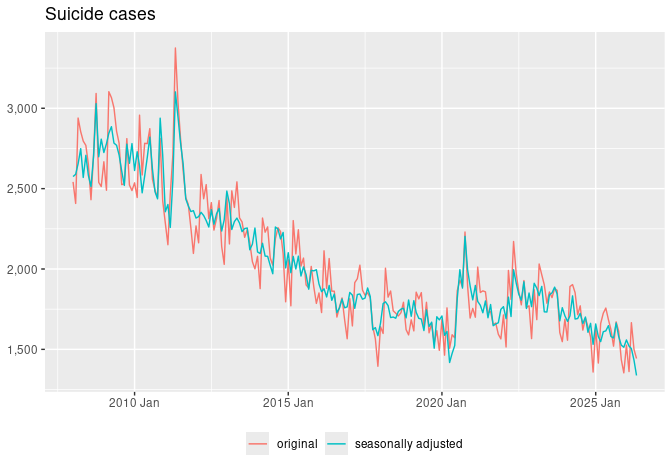
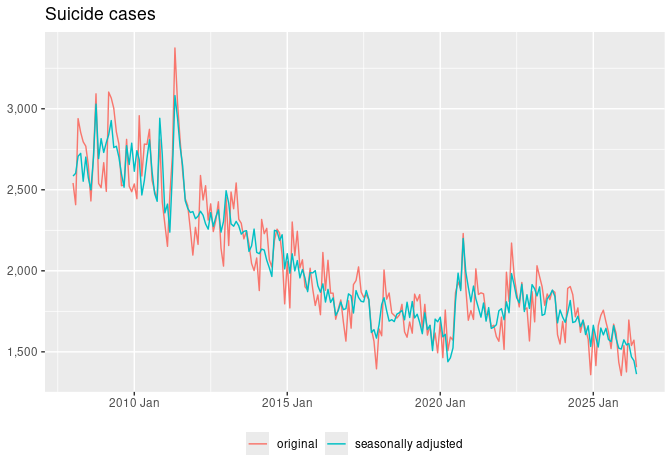
update June 2026 cases

diff --git a/README.md b/README.md
@@ -10,7 +10,7 @@ Mitsuo Shiota
 - [Suicide cases are bouncing back, but not as fast as the program
   suggests](#suicide-cases-are-bouncing-back-but-not-as-fast-as-the-program-suggests)
 
-Updated: 2026-07-01
+Updated: 2026-08-01
 
 ## Motivation
 
